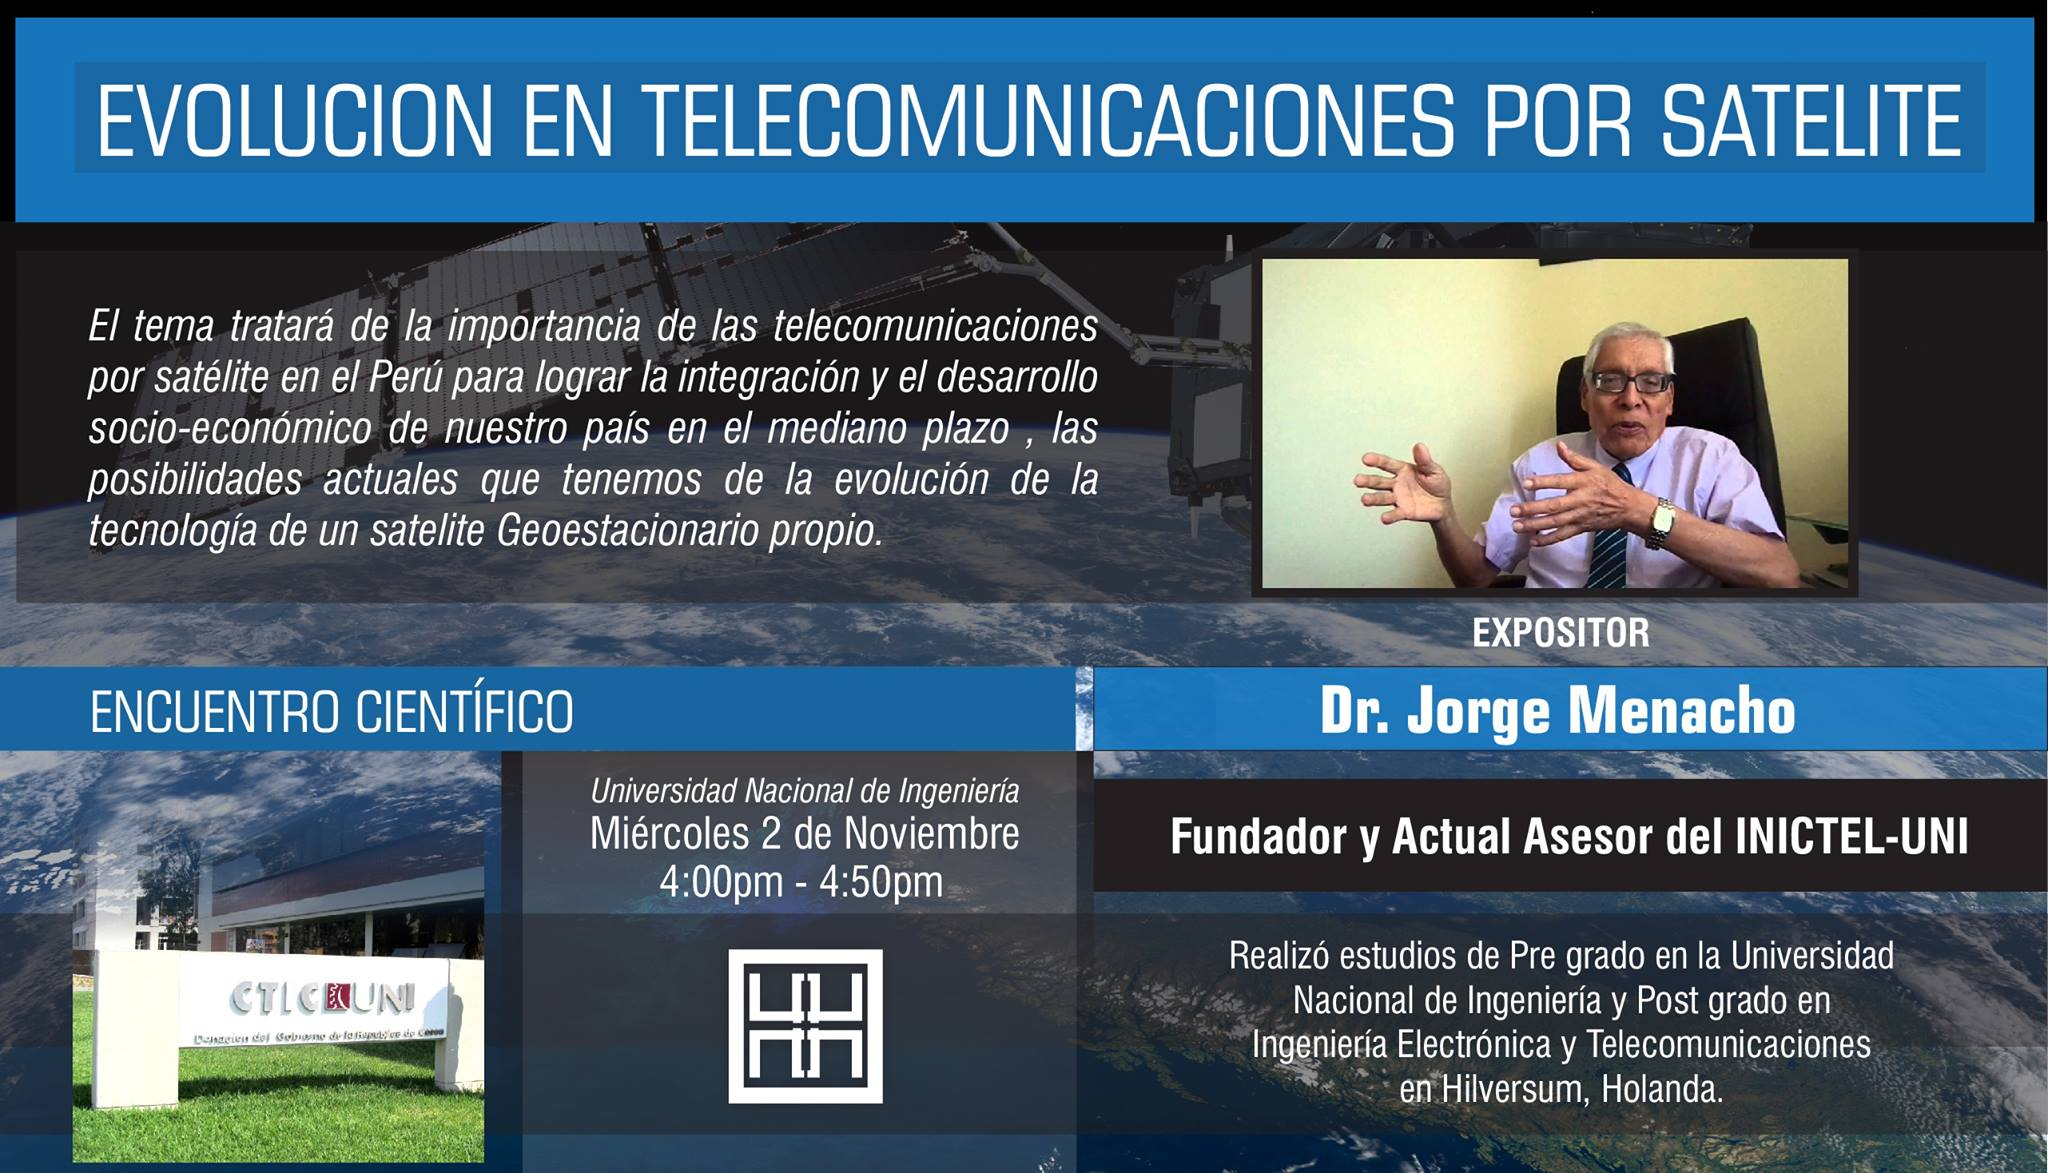
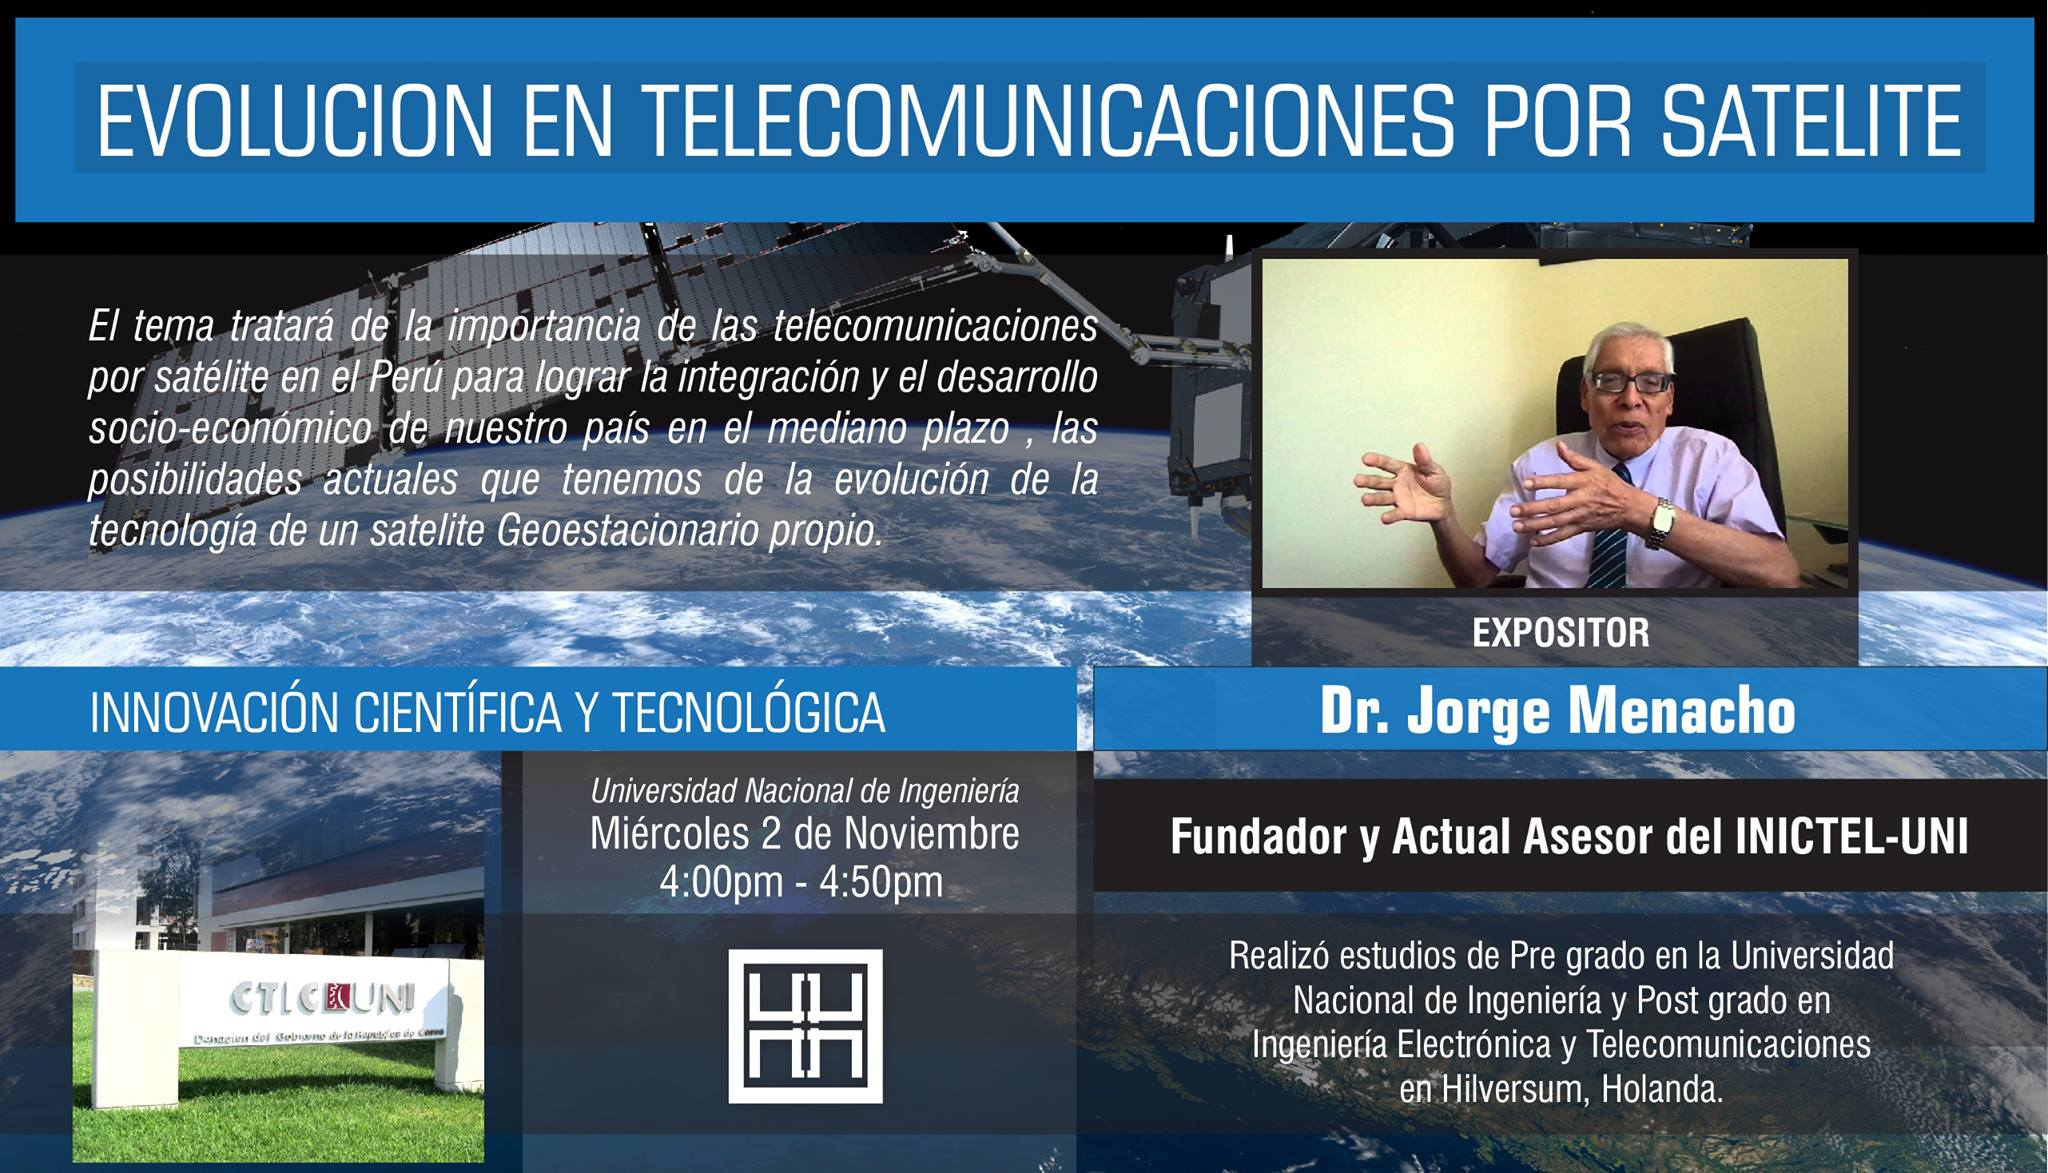
innovacion

Changed region(s): [[0.0, 0.1841, 1.0, 0.6445], [0.625, 0.1841, 0.6875, 0.2148], [0.75, 0.1841, 0.7812, 0.2148]]

diff --git a/innovacion.html b/innovacion.html
@@ -1,10 +1,11 @@
-<!DOCTYPE html>
+<!DOCTYPE HTML>
 <html>
-<head>
 	<head>
-		<title>Registrarse</title>
+		<title>Innovación Científica y Tecnológica</title>
 		<meta charset="utf-8" />
 		<meta name="viewport" content="width=device-width, initial-scale=1" />
+		<meta name="description" content="ECON reune a expertos nacionales e internacionales de electronica, brinda un espacio para la difusión  de los avances tecnológicos orientados a la electrónica">
+		<meta name="keywords" content="ECON, ECON UNI 2016, Congreso, Electronica, tecnología, CTIC, UNI">
 		<!--[if lte IE 8]><script src="assets/js/ie/html5shiv.js"></script><![endif]-->
 		<link rel="stylesheet" href="assets/css/main.css" />
 		<!--[if lte IE 9]><link rel="stylesheet" href="assets/css/ie9.css" /><![endif]-->
@@ -27,9 +28,10 @@
 		<meta  name= "msapplication-TileImage"  content= "/ms-icon-144x144.png" > 
 		<meta  name= "theme-color"  content= "#ffffff" >
 	</head>
-</head>
-<body>
+	<body>
+		<div id="page-wrapper">
 
+			<!-- Header -->
 				<header id="header">
 					<h1 id="logo"><a href="e-con.html">I Congreso de Electrónica</a></h1>
 					<nav id="nav">
@@ -45,20 +47,41 @@
 								</ul>
 							</li>
 							<li><a href="cronograma.html">Cronograma</a></li>
-							
-						</ul>
+							<li><a href="registrarse.html" class="button special">Registrarse</a></li>
 						</ul>
 					</nav>
 				</header>
-				
-				<iframe src="https://docs.google.com/forms/d/e/1FAIpQLSfOH2-ozKpAN3t_ixq-Tuh_iz_jMUWpzrQpN2XC9xQO9aV17w/viewform?c=0&w=1" width="100%" height="4000" frameborder="0" marginheight="0" marginwidth="0" style="background: #FFFFFF;"></iframe>
 
-			<footer id="footer">
+			<!-- Main -->
+				<div id="main" class="wrapper style1">
+					<div class="container">
+						<header class="major">
+							<h2>Encuentro Empresarial</h2>
+							<p>Empresas que estarán presentes en nuestras conferencias siendo su participación en la seccion "Encuentro Empresarial"</p>
+						</header>
+
+						<!-- Content -->
+							<section id="content">
+								<div class="box alt">
+									<div class="row 50% uniform">
+										<div class="6u  6u(xsmall)"><span class="image fit"><img src="images/moran.jpg" alt="" /></span></div>
+										<div class="6u  6u$(xsmall)"><span class="image fit"><img src="images/menacho.jpg" alt="" /></span></div>
+										<div class="6u  6u$(xsmall)"><span class="image fit"><img src="images/calderon.jpg" alt="" /></span></div>
+									</div>
+								
+							</section>
+
+					</div>
+				</div>
+
+			<!-- Footer -->
+				<footer id="footer">
 					<ul class="icons">
 						<li><a href="https://twitter.com/InformesEcon/" target="_blank" class="icon alt fa-twitter"><span class="label">Twitter</span></a></li>
 						<li><a href="https://www.facebook.com/ECON.UNI/" target="_blank" class="icon alt fa-facebook"><span class="label">Facebook</span></a></li>
 						
 					</ul>
+					
 					<ul class="copyright">
 					<p>Universidad Nacional de Ingeniería</p>
 					<p>Facultad de ingeniería eléctrica y electrónica</p>
@@ -67,7 +90,9 @@
 					</ul> 
 				</footer>
 
+		</div>
 
+		<!-- Scripts -->
 			<script src="assets/js/jquery.min.js"></script>
 			<script src="assets/js/jquery.scrolly.min.js"></script>
 			<script src="assets/js/jquery.dropotron.min.js"></script>
@@ -76,5 +101,6 @@
 			<script src="assets/js/util.js"></script>
 			<!--[if lte IE 8]><script src="assets/js/ie/respond.min.js"></script><![endif]-->
 			<script src="assets/js/main.js"></script>
-</body>
+
+	</body>
 </html>

diff --git a/encuentro empresarial.html b/encuentro empresarial.html
@@ -42,6 +42,7 @@
 								<ul>
 									<li><a href="encuentro cientifico.html">Encuentro Científico</a></li>
 									<li><a href="encuentro empresarial.html">Encuentro Empresarial</a></li>
+									<li><a href="innovacion.html">Innovación Científica y Tecnológica</a></li>
 									
 								</ul>
 							</li>
@@ -63,9 +64,11 @@
 							<section id="content">
 								<div class="box alt">
 									<div class="row 50% uniform">
-										<div class="6u  6u(xsmall)"><span class="image fit"><img src="images/HDL-PERU.png" alt="" /></span></div>
+										<div class="6u  6u(xsmall)"><span class="image fit"><img src="images/HDL-PERU.jpg" alt="" /></span></div>
 										<div class="6u  6u$(xsmall)"><span class="image fit"><img src="images/Inducontrol.jpg" alt="" /></span></div>
-										
+										<div class="6u  6u$(xsmall)"><span class="image fit"><img src="images/gecko.jpg" alt="" /></span></div>
+										<div class="6u  6u$(xsmall)"><span class="image fit"><img src="images/ilutec.jpg" alt="" /></span></div>
+										<div class="6u  6u$(xsmall)"><span class="image fit"><img src="images/innovate.jpg" alt="" /></span></div>
 									</div>
 								
 							</section>

diff --git a/conferencias.html b/conferencias.html
@@ -42,6 +42,7 @@
 								<ul>
 									<li><a href="encuentro cientifico.html">Encuentro Científico</a></li>
 									<li><a href="encuentro empresarial.html">Encuentro Empresarial</a></li>
+									<li><a href="innovacion.html">Innovación Científica y Tecnológica</a></li>
 									
 								</ul>
 							</li>

diff --git a/cronograma.html b/cronograma.html
@@ -42,6 +42,7 @@
 								<ul>
 									<li><a href="encuentro cientifico.html">Encuentro Científico</a></li>
 									<li><a href="encuentro empresarial.html">Encuentro Empresarial</a></li>
+									<li><a href="innovacion.html">Innovación Científica y Tecnológica</a></li>
 									
 								</ul>
 							</li>

diff --git a/e-con.html b/e-con.html
@@ -43,6 +43,7 @@
 								<ul>
 									<li><a href="encuentro cientifico.html">Encuentro Científico</a></li>
 									<li><a href="encuentro empresarial.html">Encuentro Empresarial</a></li>
+									<li><a href="innovacion.html">Innovación Científica y Tecnológica</a></li>
 									
 								</ul>
 							</li>

diff --git a/encuentro cientifico.html b/encuentro cientifico.html
@@ -42,6 +42,7 @@
 								<ul>
 									<li><a href="encuentro cientifico.html">Encuentro Científico</a></li>
 									<li><a href="encuentro empresarial.html">Encuentro Empresarial</a></li>
+									<li><a href="innovacion.html">Innovación Científica y Tecnológica</a></li>
 									
 								</ul>
 							</li>
